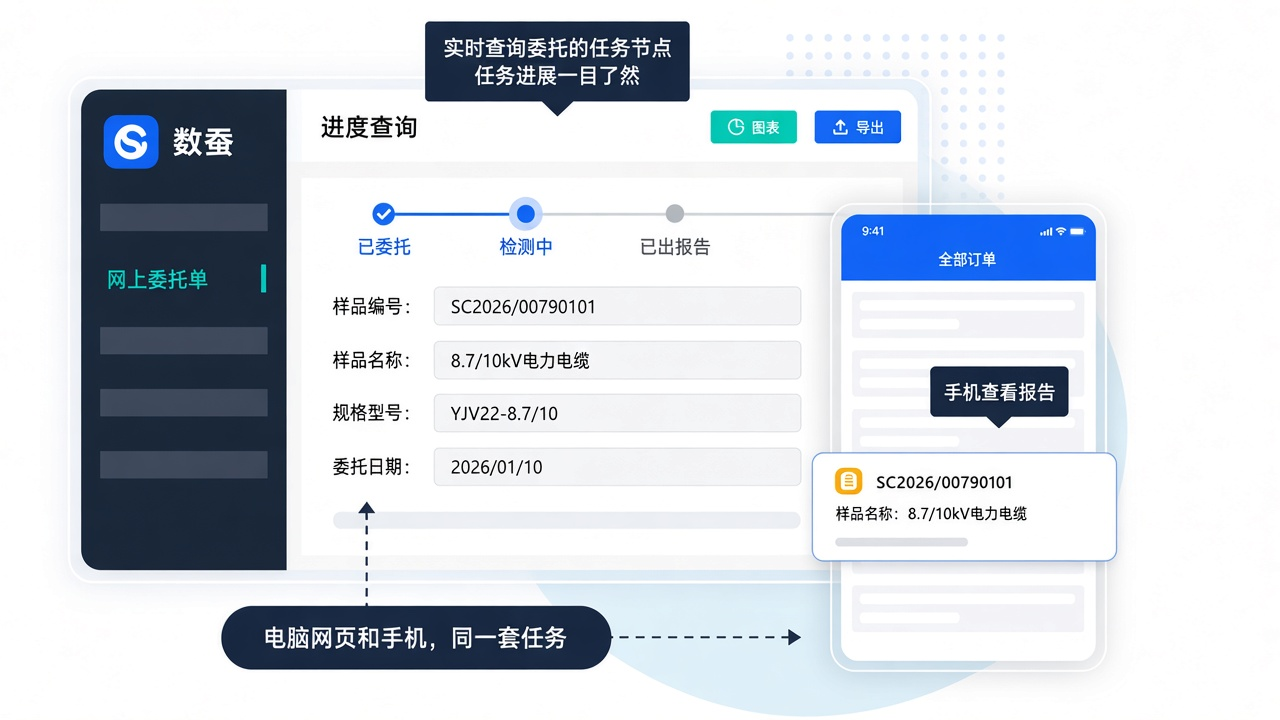
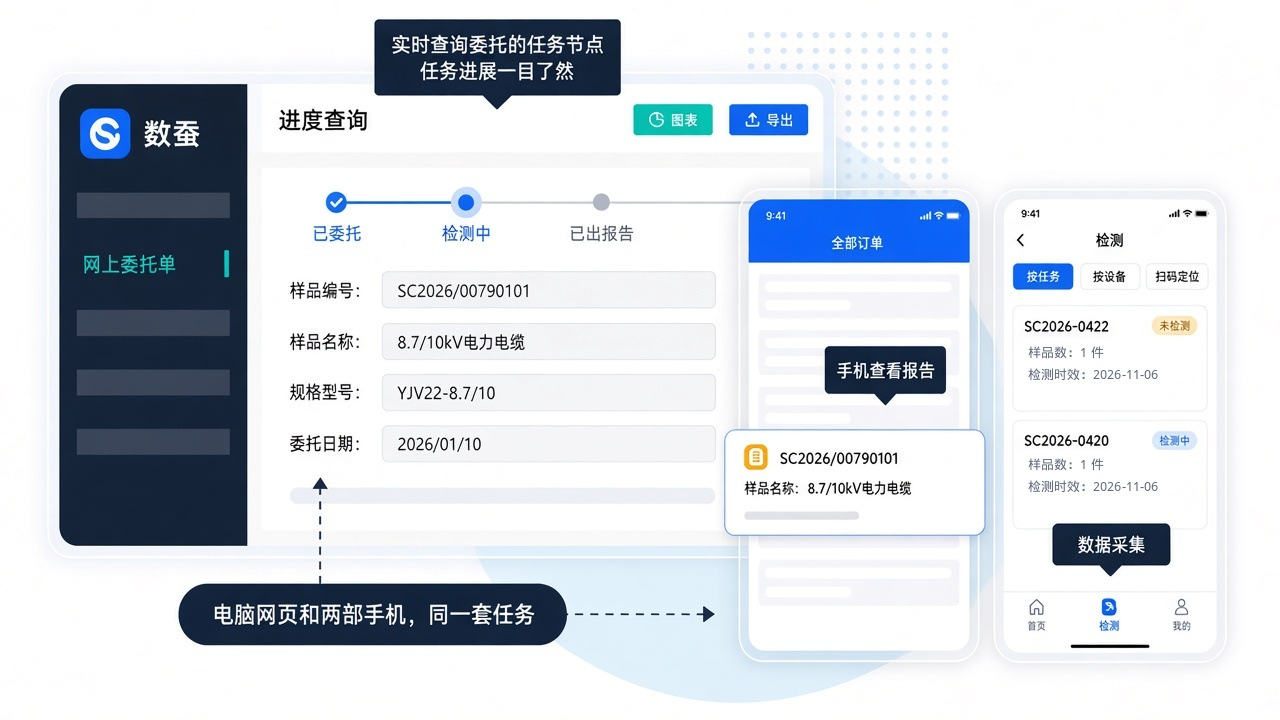
fix: 优势8补上数据采集手机端

diff --git a/shucan-lims-brochure.html b/shucan-lims-brochure.html
@@ -466,7 +466,7 @@
             </ul>
           </div>
           <div class="visual">
-            <img class="illu" src="assets/brochure/17-pc-mobile.jpg" alt="电脑网页查询电缆委托进度，手机查看同一条样品报告" />
+            <img class="illu" src="assets/brochure/17-pc-mobile.jpg?v=collect" alt="电脑网页查询电缆委托进度，一部手机查看报告，另一部手机做数据采集" />
             <p class="cap">电脑网页、LIMS App、数据采集 App，同一套任务。</p>
           </div>
         </article>
